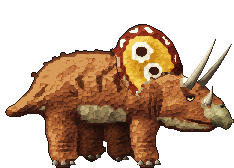
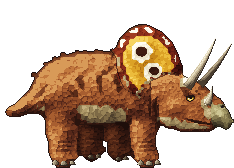
Three-horn: the frill turns off a painted body when it eats, no smear
The painter can now paint an under-layer (dinos/hd/<name>_under.png): the
body without the parts that turn with the head, whole where they hid it.
The rig turns only the head's own pixels over it, so the back and the
shoulders under the frill stay put and show where the frill was, instead
of the frill swept round to fill the joint. The three-horn gets one, a
neck under its frill, and its frill and head in front of the near shoulder.

diff --git a/internal/dinopaint/under.go b/internal/dinopaint/under.go
@@ -1,0 +1,129 @@
+package dinopaint
+
+import (
+	"image"
+	"image/color"
+)
+
+// The under-layer: what the body looks like under the parts that turn with
+// the head. A three-horn's frill stands over its shoulders; when the rig
+// lowers the head to eat, the frill swings off them, and the shoulders and
+// the back under it must be there to show. The painter paints them whole
+// into dinos/hd/<name>_under.png, the same size as the painting, and the
+// rig (internal/client/dinounder.go) takes from it, pixel by pixel, which
+// pixels turn with the head and what shows where they were.
+//
+// Its alpha says what the painting is at each pixel:
+//
+//	255     a part that turns with the head, with the body under it: the
+//	        colour is that body, painted as if the head were not there;
+//	UnderKeep  the body's own, which stays put when the head turns, even
+//	        on the head's side of the rig's cut (the colour is the
+//	        painting's, for looking at);
+//	0       a part that turns with the head with nothing under it, or
+//	        nothing at all.
+
+// UnderKeep is the alpha of a pixel of the under-layer that is the body's
+// own: below 128, so the game never draws it.
+const UnderKeep = 64
+
+// Under is how a species' under-layer is painted.
+type Under struct {
+	// Parts are the parts that turn with the head; every other part is the
+	// body's. The body's parts should be drawn whole where the head hides
+	// them: an extra part (a neck under a frill), hidden in the painting by
+	// those in front of it, is painted only here.
+	Parts []string
+	Mat   string // the material of the hide they hide
+	// Region limits where the hidden body is painted (nil: wherever a
+	// part of the body holds it).
+	Region SDF
+}
+
+var unders = map[string]*Under{}
+
+// RegisterUnder gives species name an under-layer.
+func RegisterUnder(name string, u *Under) { unders[name] = u }
+
+// LookupUnder is the under-layer of species name, if it has one.
+func LookupUnder(name string) (*Under, bool) { u, ok := unders[name]; return u, ok }
+
+// PaintUnder paints the under-layer of species sp, whose painting m is,
+// over its guide.
+func PaintUnder(sp *Species, u *Under, guide image.Image, m *Painter) *image.NRGBA {
+	omit := map[int]bool{}
+	for _, n := range u.Parts {
+		if j := m.PartID(n); j >= 0 {
+			omit[j] = true
+		}
+	}
+	sub := *sp
+	sub.Parts = nil
+	for j, pt := range sp.Parts {
+		if !omit[j] {
+			sub.Parts = append(sub.Parts, pt)
+		}
+	}
+	sub.GuideDetail = 0 // the guide shows the head here, not the body
+	sub.Details = nil
+	p := New(&sub, guide)
+
+	// The silhouette: the painting's, less what is only the head's.
+	hidden := make([]bool, len(m.In))
+	keep := make([]bool, len(m.In))
+	for i, in := range m.In {
+		if !in {
+			continue
+		}
+		j := m.Part[i]
+		switch {
+		case j >= 0 && !omit[j]:
+			p.In[i], keep[i] = true, true
+		case j >= 0:
+			x, y := G(i%m.W, i/m.W)
+			if u.Region != nil && u.Region(x, y) > 0 {
+				continue
+			}
+			for _, pt := range sub.Parts {
+				if pt.Shape(x, y) <= 0 {
+					p.In[i], hidden[i] = true, true
+					break
+				}
+			}
+		}
+	}
+	p.placeKnobs()
+	p.Sil = sdfOf(p.In, p.W, p.H)
+	for i := range p.Sil.V {
+		p.Sil.V[i] /= K
+	}
+	p.materials()
+	p.recolor()
+	if mat := p.MatID(u.Mat); mat >= 0 {
+		for i, h := range hidden {
+			if h {
+				p.Mat[i] = mat
+			}
+		}
+	}
+	p.assignParts()
+	p.form()
+	p.shade()
+	p.skin()
+	p.colour()
+	p.outline()
+
+	img := image.NewNRGBA(image.Rect(0, 0, p.W, p.H))
+	set := func(i int, c color.NRGBA, a uint8) {
+		img.Pix[4*i], img.Pix[4*i+1], img.Pix[4*i+2], img.Pix[4*i+3] = c.R, c.G, c.B, a
+	}
+	for i := range m.In {
+		switch {
+		case keep[i]:
+			set(i, m.Out[i], UnderKeep)
+		case hidden[i]:
+			set(i, p.Out[i], 255)
+		}
+	}
+	return img
+}

diff --git a/internal/dinopaint/trike.go b/internal/dinopaint/trike.go
@@ -13,7 +13,11 @@ var (
 	greenIris = []uint32{0x3a2a08, 0x6a4a0a, 0x9c7210, 0xcaa024, 0xeed054, 0xfff0a0}
 )
 
-func init() { Register(trike()) }
+func init() {
+	Register(trike())
+	// The shoulders and the neck under the frill, for when the head turns.
+	RegisterUnder("trike", &Under{Parts: []string{"frill", "head"}, Mat: "hide"})
+}
 
 func trike() *Species {
 	nearHind := Union(
@@ -32,7 +36,7 @@ func trike() *Species {
 		Ellipse(40, 52, 3.6, 1.9, 0),
 	)
 	nearFore := Union(
-		Cone(48.5, 32, 6, 48, 44, 3.8),
+		Cone(48.5, 34.5, 5.6, 48, 44, 3.8),
 		Cone(48, 44, 3.6, 48.5, 51, 3.1),
 		Ellipse(49.6, 53.7, 4.4, 2.4, 0),
 	)
@@ -41,11 +45,11 @@ func trike() *Species {
 		Ellipse(31, 30.2, 18.5, 11.6, 0),
 		Ellipse(46, 33, 8, 8.5, 0), // the shoulders
 	)
-	frill := Ellipse(49.5, 20.6, 10.8, 11.8, 0.15)
-	head := Blend(2,
+	frill := Union(Ellipse(49.5, 20.6, 10.8, 11.8, 0.15), Ellipse(45, 25.8, 5, 5.4, 0))
+	head := Cut(Blend(2,
 		Poly(50, 27, 56, 24.4, 62, 25.6, 68, 28.5, 73, 33, 77.5, 36, 78.5, 40.5, 76, 43.5, 66, 44.2, 57, 43, 51, 39.5),
 		Ellipse(58, 34, 7.5, 7.5, 0), // the cheek and the jaw's corner
-	)
+	), Poly(43, 34.5, 52.6, 34.5, 53.2, 46, 43, 46)) // not the near shoulder, in front of it
 	beak := Poly(70.2, 35.2, 74, 34.6, 78.6, 37.8, 78.8, 41.6, 76.4, 43.6, 72, 43.2, 70.4, 40.6)
 	return &Species{
 		Name:        "trike",
@@ -98,14 +102,10 @@ func trike() *Species {
 				Mu(31, 38.5, 12, 3, 0, 0.6),    // the belly
 				Mu(10, 35.5, 7, 2.4, 0.3, 0.9), // the tail
 			}},
-			{Name: "frill", Shape: frill, Round: 3.2, Soft: 0.6, Scale: 0.9, Muscles: []Muscle{
-				Mu(48, 18, 6, 6.5, 0, 0.9), // a shallow dome
-			}},
-			{Name: "head", Shape: head, Round: 4.5, Soft: 0.7, Scale: 0.75, Muscles: []Muscle{
-				Mu(58.5, 36, 4.5, 4, 0, 1.6),     // the cheek and jaw muscle
-				Mu(63.5, 30.6, 2.6, 1.3, 0, 1.3), // the brow over the eye
-				Mu(68.5, 33, 2.5, 2.2, 0, 0.9),   // the base of the nose horn
-				Mu(74, 38.5, 3.5, 2.6, 0, 0.9),   // the beak
+			// The neck, short and thick, all under the frill and the head: it shows
+			// only when the head turns (the under-layer).
+			{Name: "neck", Shape: Cone(44, 29.5, 7.5, 56, 36, 6.5), Round: 6, Onto: "body", Seam: Below(0, 999, 100, 999), Muscles: []Muscle{
+				Mu(50, 29, 6, 4, 0.4, 1.0),
 			}},
 			{Name: "nearHind", Shape: nearHind, Round: 4.5, Onto: "body", Seam: Below(5, 38.5, 35, 38.5), Muscles: []Muscle{
 				Mu(20, 37, 4.6, 5.5, 0, 1.7), // the thigh
@@ -116,6 +116,16 @@ func trike() *Species {
 				Mu(48.4, 37, 4.2, 5.2, 0, 1.6), // the upper arm
 				Mu(48, 44.5, 2.4, 2.2, 0, 0.6), // the elbow
 				Mu(49.6, 53, 3.4, 1.8, 0, 0.6),
+			}},
+			// The frill and the head in front of the near shoulder.
+			{Name: "frill", Shape: frill, Round: 3.2, Soft: 0.6, Scale: 0.9, Muscles: []Muscle{
+				Mu(48, 18, 6, 6.5, 0, 0.9), // a shallow dome
+			}},
+			{Name: "head", Shape: head, Round: 4.5, Soft: 0.7, Scale: 0.75, Muscles: []Muscle{
+				Mu(58.5, 36, 4.5, 4, 0, 1.6),     // the cheek and jaw muscle
+				Mu(63.5, 30.6, 2.6, 1.3, 0, 1.3), // the brow over the eye
+				Mu(68.5, 33, 2.5, 2.2, 0, 0.9),   // the base of the nose horn
+				Mu(74, 38.5, 3.5, 2.6, 0, 0.9),   // the beak
 			}},
 		},
 		Skin: Skin{Flank: 2.1, Back: 3.4, Belly: 1.5, BackDepth: 5, BellyDepth: 4, Seed: 23},

diff --git a/internal/client/dinounder.go b/internal/client/dinounder.go
@@ -1,0 +1,77 @@
+package client
+
+import (
+	"image/color"
+	"math"
+)
+
+// An under-layer, dinos/hd/<file>_under.png, is a painted drawing's body
+// where the parts that turn with the head hide it (painted by
+// cmd/dinopaint; see internal/dinopaint/under.go): a three-horn's shoulders
+// and back under its frill. With one, the head turns cleanly: only the
+// head's own pixels turn, the body's stay put even on the head's side of
+// the cut, and where the head was, the body painted under it shows,
+// instead of the head swept round to fill the joint.
+//
+// Its alpha says what the drawing is at each pixel: 255, the head over
+// body (the colour is that body); 1 to 127, the body's own; 0, the head
+// with nothing under it, or nothing.
+
+// dinoUnder is the under-layer of drawing file at density k, or nil.
+func dinoUnder(file string, k int) *canvas {
+	if k != HDDensity {
+		return nil
+	}
+	return dinoImage(file+"_under", true)
+}
+
+// turnOver turns the head, rigPart pr, by a radians about its pivot over
+// under-layer u, whose top left is at (ox, oy) on c.
+func turnOver(c *canvas, pr rigPart, a float64, u *canvas, ox, oy int) {
+	src := append([]color.RGBA(nil), c.px...)
+	has := pr.tester()
+	ul := func(x, y int) color.RGBA {
+		x, y = x-ox, y-oy
+		if x < 0 || y < 0 || x >= u.w || y >= u.h {
+			return color.RGBA{}
+		}
+		return u.px[y*u.w+x]
+	}
+	in := func(x, y int) bool {
+		if src[y*c.w+x].A < 128 || !has(float64(x)+0.5, float64(y)+0.5) {
+			return false
+		}
+		q := ul(x, y)
+		return q.A == 0 || q.A >= 128 // not the body's own
+	}
+	reach := 0.0
+	for y := 0; y < c.h; y++ {
+		for x := 0; x < c.w; x++ {
+			if !in(x, y) {
+				continue
+			}
+			reach = max(reach, math.Hypot(float64(x)+0.5-pr.pivot.x, float64(y)+0.5-pr.pivot.y))
+			c.px[y*c.w+x] = color.RGBA{}
+			if q := ul(x, y); q.A >= 128 {
+				c.px[y*c.w+x] = q // the body under the head
+			}
+		}
+	}
+	x0, x1 := max(0, int(pr.pivot.x-reach)-1), min(c.w, int(pr.pivot.x+reach)+2)
+	y0, y1 := max(0, int(pr.pivot.y-reach)-1), min(c.h, int(pr.pivot.y+reach)+2)
+	sn, cs := math.Sincos(-a)
+	r2 := (reach + 1) * (reach + 1)
+	for y := y0; y < y1; y++ {
+		for x := x0; x < x1; x++ {
+			dx, dy := float64(x)+0.5-pr.pivot.x, float64(y)+0.5-pr.pivot.y
+			if dx*dx+dy*dy > r2 {
+				continue
+			}
+			sx := int(math.Floor(pr.pivot.x + dx*cs - dy*sn))
+			sy := int(math.Floor(pr.pivot.y + dx*sn + dy*cs))
+			if sx >= 0 && sy >= 0 && sx < c.w && sy < c.h && in(sx, sy) {
+				c.px[y*c.w+x] = src[sy*c.w+sx]
+			}
+		}
+	}
+}

diff --git a/internal/dinopaint/under_test.go b/internal/dinopaint/under_test.go
@@ -1,0 +1,50 @@
+package dinopaint
+
+import (
+	"image"
+	"image/color"
+	"path/filepath"
+	"testing"
+)
+
+// TestUnderLayers paints the under-layer of every species that has one and
+// checks dinos/hd/<name>_under.png is the same, pixel for pixel, alpha too.
+func TestUnderLayers(t *testing.T) {
+	for _, name := range Names() {
+		u, ok := LookupUnder(name)
+		if !ok {
+			continue
+		}
+		sp, _ := Lookup(name)
+		g := loadPNG(t, filepath.Join(dinos, name+".png"))
+		_, p := Paint(sp, g)
+		img := PaintUnder(sp, u, g, p)
+		have := loadPNG(t, filepath.Join(dinos, "hd", name+"_under.png"))
+		if have.Bounds() != img.Bounds() {
+			t.Errorf("%s: dinos/hd/%s_under.png is %v, want %v", name, name, have.Bounds().Size(), img.Bounds().Size())
+			continue
+		}
+		hidden, diff := 0, 0
+		for y := 0; y < p.H; y++ {
+			for x := 0; x < p.W; x++ {
+				want := img.NRGBAAt(x, y)
+				if want.A == 255 {
+					hidden++
+				}
+				if got := nrgbaAt(have, x, y); got != want && (got.A != 0 || want.A != 0) {
+					diff++
+				}
+			}
+		}
+		if diff > 0 {
+			t.Errorf("%s: dinos/hd/%s_under.png differs from its painting in %d pixels: go run ./cmd/dinopaint %s", name, name, diff, name)
+		}
+		if hidden == 0 {
+			t.Errorf("%s: its under-layer hides no body", name)
+		}
+	}
+}
+
+func nrgbaAt(img image.Image, x, y int) color.NRGBA {
+	return color.NRGBAModel.Convert(img.At(x, y)).(color.NRGBA)
+}

diff --git a/internal/client/dinorig.go b/internal/client/dinorig.go
@@ -206,7 +206,11 @@ func rigCanvas(r dinoRig, p rigPose) (c *canvas, ax, ay float64, ok bool) {
 		openJaw(w, off(r.jaw[0]), off(r.jaw[1]), shift(r.head), p.open, r.teeth, r.drawnTeeth, kf)
 	}
 	if p.head != 0 {
-		turn(w, shift(r.head), p.head, joint)
+		if u := dinoUnder(r.file, k); u != nil && u.w == base.w && u.h == base.h {
+			turnOver(w, shift(r.head), p.head, u, pad, pad+int(bob)) // dinounder.go
+		} else {
+			turn(w, shift(r.head), p.head, joint)
+		}
 	}
 	if p.neck != 0 && r.neck.maxY != 0 {
 		turn(w, shift(r.neck), p.neck, joint)

diff --git a/cmd/dinopaint/main.go b/cmd/dinopaint/main.go
@@ -44,6 +44,12 @@ func main() {
 			os.Exit(1)
 		}
 		fmt.Println(p.Report())
+		if u, ok := dinopaint.LookupUnder(sp.Name); ok {
+			if err := save(filepath.Join(*out, sp.Name+"_under.png"), dinopaint.PaintUnder(sp, u, g, p)); err != nil {
+				fmt.Fprintln(os.Stderr, "dinopaint:", err)
+				os.Exit(1)
+			}
+		}
 		if *debug != "" {
 			for name, m := range debugMaps(p) {
 				if err := save(filepath.Join(*debug, sp.Name+"_"+name+".png"), m); err != nil {

diff --git a/internal/client/dinos/hd/README.md b/internal/client/dinos/hd/README.md
@@ -47,7 +47,15 @@ guide (`dinos/<name>.png`): open it enlarged with a grid to measure.
    the rig's jaw line, which then sets `drawnTeeth`), `Nostril`, `Claw`,
    `Horn`, `Nail`. Cut a guide's thin horns out of the silhouette (`Remove`)
    and paint them again.
-6. Paint, add the name to `PAINTED` in `gen.py`, and look:
+6. **Under the head** (`RegisterUnder`, `under.go`), for a head that hides
+   the body: a frill over the shoulders. The painter then also paints
+   `<name>_under.png`, the body without the head's parts, whole where they
+   hid it (add a part, a neck say, that only shows there). When the rig
+   turns the head, only the head's own pixels turn, the body's stay put on
+   either side of the cut, and the painted body shows where the head was
+   (`dinounder.go`) instead of the head swept round to fill the joint.
+   Every pixel of the head must be in a head part's `Shape`.
+7. Paint, add the name to `PAINTED` in `gen.py`, and look:
 
    ```sh
    go run ./cmd/dinopaint -debug /tmp/dbg <name>     # also the material, part and light maps
